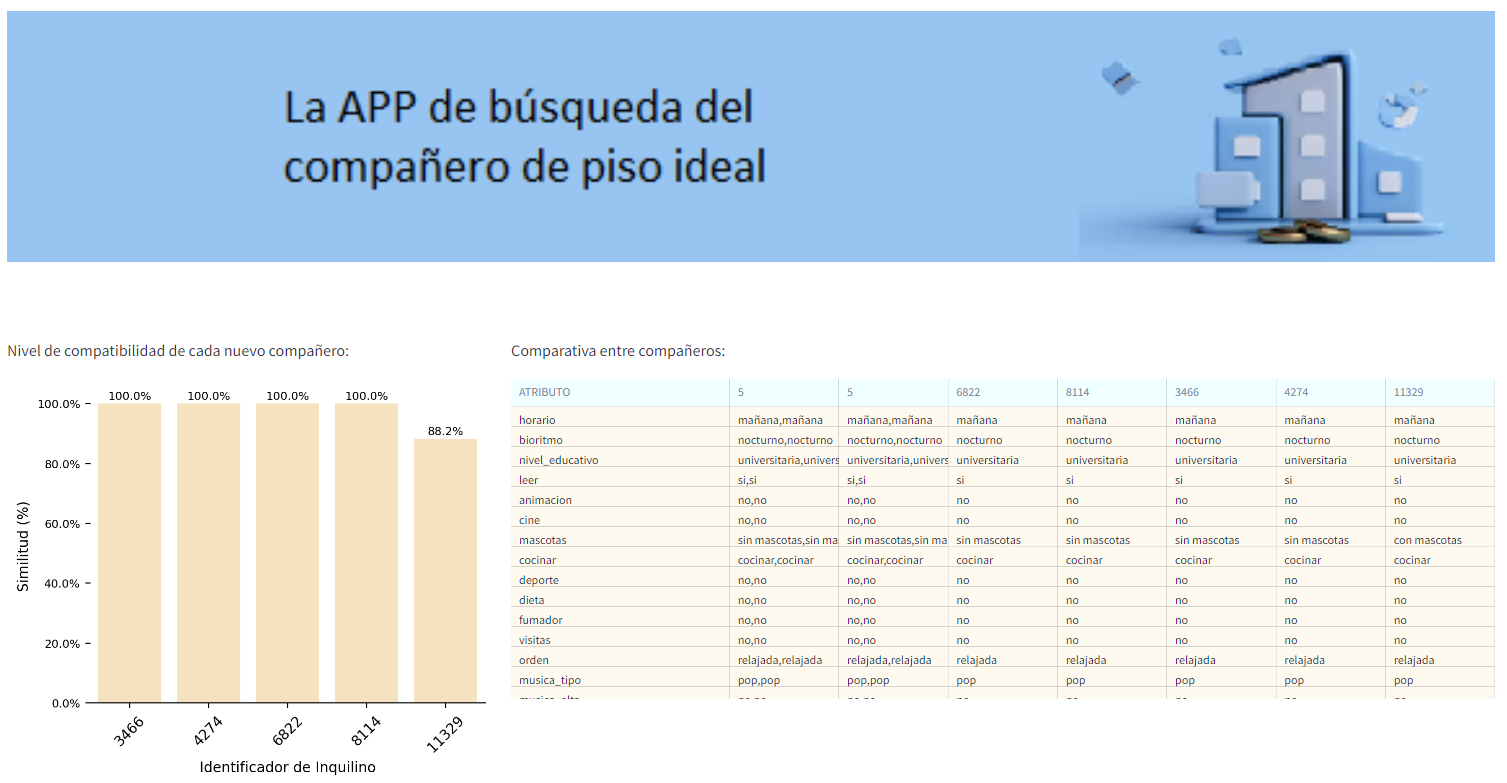
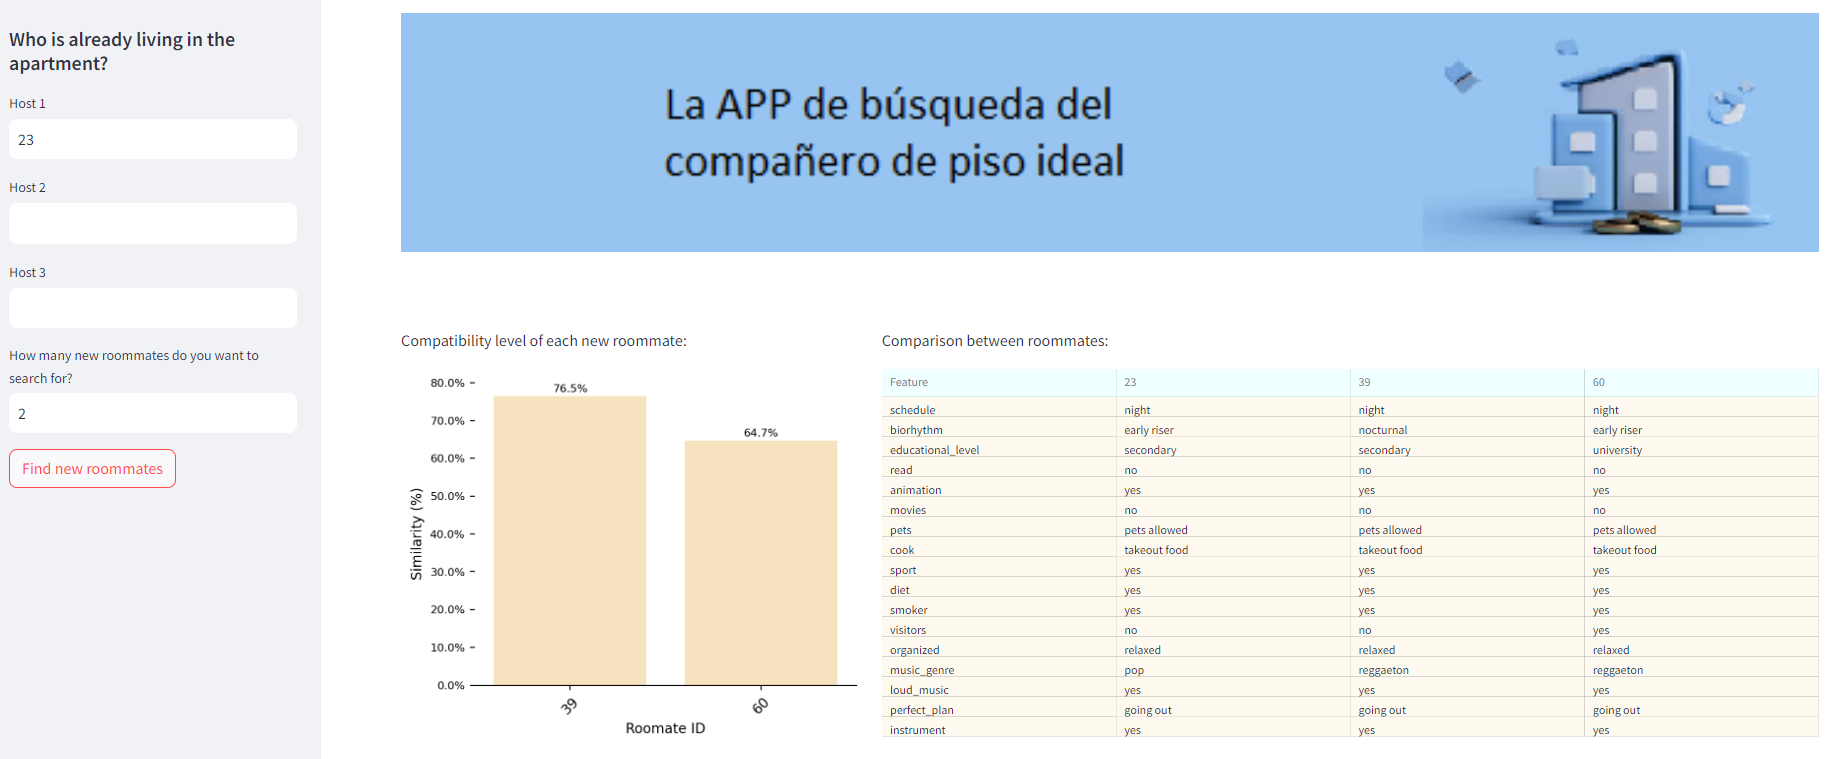
to-en

diff --git a/app.py b/app.py
@@ -1,6 +1,6 @@
 import streamlit as st
 from logica import inquilinos_compatibles
-from app_inquilino_ideal.funciones import generar_grafico_compatibilidad, generar_tabla_compatibilidad, obtener_id_inquilinos
+from functions import generar_grafico_compatibilidad, generar_tabla_compatibilidad, obtener_id_inquilinos
 
 # Configurar la página para utilizar un layout más amplio.
 st.set_page_config(layout="wide")
@@ -15,19 +15,19 @@ st.markdown(f'<div style="margin-top: 60px;"></div>', unsafe_allow_html=True)
 
 # Configurar el sidebar con inputs y un botón.
 with st.sidebar:
-    st.header("¿Quién está viviendo ya en el piso?")
-    inquilino1 = st.text_input("Anfitrión 1")
-    inquilino2 = st.text_input("Anfitrión 2")
-    inquilino3 = st.text_input("Anfitrión 3")
+    st.header("Who is already living in the apartment?")
+    inquilino1 = st.text_input("Host 1")
+    inquilino2 = st.text_input("Host 2")
+    inquilino3 = st.text_input("Host 3")
     
-    num_compañeros = st.text_input("¿Cuántos nuevos compañeros quieres buscar?")
+    num_compañeros = st.text_input("How many new roommates do you want to search for?")
     
-    if st.button('BUSCAR NUEVOS COMPAÑEROS'):
+    if st.button('Find new roommates'):
         # Verifica que el número de compañeros sea un valor válido
         try:
             topn = int(num_compañeros)
         except ValueError:
-            st.error("Por favor, ingresa un número válido para el número de compañeros.")
+            st.error("Please enter a valid number for the number of roommates.")
             topn = None
         
         # Obtener los identificadores de inquilinos utilizando la función
@@ -45,13 +45,15 @@ elif resultado is not None:
     cols = st.columns((1, 2))  # Divide el layout en 2 columnas
     
     with cols[0]:  # Esto hace que el gráfico y su título aparezcan en la primera columna
-        st.write("Nivel de compatibilidad de cada nuevo compañero:")
+        st.write("Compatibility level of each new roommate:")
         fig_grafico = generar_grafico_compatibilidad(resultado[1])
         st.pyplot(fig_grafico)
     
     with cols[1]:  # Esto hace que la tabla y su título aparezcan en la segunda columna
-        st.write("Comparativa entre compañeros:")
+        st.write("Comparison between roommates:")
         fig_tabla = generar_tabla_compatibilidad(resultado)
+        fig_tabla.update_layout(height=380)
+
         st.plotly_chart(fig_tabla, use_container_width=True)
 
 

diff --git a/functions.py b/functions.py
@@ -17,8 +17,8 @@ def generar_grafico_compatibilidad(compatibilidad):
     sns.despine(top=True, right=True, left=True, bottom=False)
     
     # Configurar las etiquetas de los ejes y rotar las etiquetas del eje x
-    ax.set_xlabel('Identificador de Inquilino', fontsize=10)
-    ax.set_ylabel('Similitud (%)', fontsize=10)
+    ax.set_xlabel('Roomate ID', fontsize=10)
+    ax.set_ylabel('Similarity (%)', fontsize=10)
     ax.set_xticklabels(ax.get_xticklabels(), rotation=45)
     
     # Ajustar las etiquetas del eje y para mostrar porcentajes correctamente
@@ -40,11 +40,11 @@ def generar_grafico_compatibilidad(compatibilidad):
 def generar_tabla_compatibilidad(resultado):
     # Cambiar el nombre de la columna 'index' y ajustar el ancho de las columnas
     resultado_0_with_index = resultado[0].reset_index()
-    resultado_0_with_index.rename(columns={'index': 'ATRIBUTO'}, inplace=True)
+    resultado_0_with_index.rename(columns={'index': 'Feature'}, inplace=True)
     
     # Configurar la tabla de Plotly
     fig_table = go.Figure(data=[go.Table(
-        columnwidth = [20] + [10] * (len(resultado_0_with_index.columns) - 1),  # Ajustar el primer valor para el ancho de la columna 'ATRIBUTO'
+        columnwidth = [10] + [10] * (len(resultado_0_with_index.columns) - 1),  # Ajustar el primer valor para el ancho de la columna 'ATRIBUTO'
         header=dict(values=list(resultado_0_with_index.columns),
                     fill_color='azure',
                     align='left'),
@@ -71,7 +71,7 @@ def obtener_id_inquilinos(inquilino1, inquilino2, inquilino3, topn):
             if inquilino:  # Si hay algún texto en el input
                 id_inquilinos.append(int(inquilino))  # Convierte a entero y agrega a la lista
         except ValueError:
-            st.error(f"El identificador del inquilino '{inquilino}' no es un número válido.")
+            st.error(f"The roommate ID: '{inquilino}' is not a valid numer")
             id_inquilinos = []  # Vaciar la lista si hay un error
             break  # Salir del bucle
 

diff --git a/logica.py b/logica.py
@@ -4,12 +4,12 @@ import pandas as pd
 from sklearn.preprocessing import OneHotEncoder
 
 # 2. CARGA DE DATOS
-df = pd.read_csv('dataset_inquilinos.csv', index_col = 'id_inquilino')
+df = pd.read_csv('dataset_inquilinos_100_en.csv', index_col = 'id_inquilino')
 
 df.columns = [
-'horario', 'bioritmo', 'nivel_educativo', 'leer', 'animacion', 
-'cine', 'mascotas', 'cocinar', 'deporte', 'dieta', 'fumador',
-'visitas', 'orden', 'musica_tipo', 'musica_alta', 'plan_perfecto', 'instrumento'
+    'schedule', 'biorhythm', 'educational_level', 'read', 'animation', 
+    'movies', 'pets', 'cook', 'sport', 'diet', 'smoker', 'visitors', 
+    'organized', 'music_genre', 'loud_music', 'perfect_plan', 'instrument'
 ]
 
 # 3. ONE HOT ENCODING
@@ -57,7 +57,7 @@ def inquilinos_compatibles(id_inquilinos, topn):
     # Verificar si todos los ID de inquilinos existen en la matriz de similaridad
     for id_inquilino in id_inquilinos:
         if id_inquilino not in df_similaridad.index:
-            return 'Al menos uno de los inquilinos no encontrado'
+            return 'Host or roommate ID not found. Please use one from range (1-99)'
 
     # Obtener las filas correspondientes a los inquilinos dados
     filas_inquilinos = df_similaridad.loc[id_inquilinos]

diff --git a/readme.md b/readme.md
@@ -1,10 +1,10 @@
-# APP El inquilino ideal
+# APP Web development of 'Your perfect Roommate'
 
-Caso práctico que combina data science, análisis de datos y el sector inmobiliario. Se quiere mostrar como usar Data Science para solucionar problemas complejos en un contexto de negocio real.
+A practical case that combines data science, data analysis, and the real estate sector. The goal is to demonstrate how to use data science to solve complex problems in a real business context.
 
-El caso deberá analizar y responder qué compañero resulta idóneo de entre 12000 posibles candidatos según las respuestas dadas a un total de 17 preguntas para compartir un piso con varias habitaciones dónde mínimo alguna de ellas ya está ocupada.
+The case will analyze and determine which roommate is ideal among 100 possible candidates based on the responses to a total of 17 questions for sharing an apartment with multiple rooms, where at least some of them are already occupied.
 
-Veremos cómo transformar un desafío del mundo real en una solución práctica usando herramientas de Data Science como Python, Pandas, Streamlit y Numpy. Además, se hace uso de Streamlit para crear una aplicación interactiva tras procesar el dataset y extraer la solución con los inputs que el usuario introduzca
+We will see how to transform a real-world challenge into a practical solution using data science tools such as Python, Pandas, Streamlit, and Numpy. Additionally, Streamlit is used to create an interactive application after processing the dataset and extracting the solution based on user inputs.
 
 ## Tecnologías utilizadas
 
@@ -17,24 +17,24 @@ Veremos cómo transformar un desafío del mundo real en una solución práctica 
 - Plotly
 - Streamlit
 
-## Ejemplo de uso
+## Case of use example
 
 ![header_photo](https://github.com/CarlEstP/app_inquilino_ideal/blob/main/src/exa.PNG)
 
-- _Caso práctico adaptado de la propuesta del canal DS4B_ \*
+- _Practical case adapted from the proposal of the DS4B channel_
 
-## Descripción de la lógica de la app
+## Description of the App Logic
 
-1 Arranca la app desde app.py generando el frontend con la ayuda de streamlit
+1. Start the app from app.py, generating the frontend with the help of Streamlit.
 
-2 Se accede al archivo de funciones.py para reformatear los identificadores de inquilino introducidos en el formulario
+2. Access the functions.py file to reformat the tenant identifiers entered in the form.
 
-3 Se ejecuta la función de buscar los inquilinos compatibles (Acceder al jupyter notebook de logica.ipynb para más detalles):
+3. Execute the function to search for compatible roomates (Refer to the Jupyter notebook logica.ipynb for more details):
 
-- Se usa la librería OneHotEncoder y se calcula la matriz de similaridad utilizando el punto producto
-- Se define el rango de destino, se encuentra el mínimo y máximo valor y se reescala la matriz
-- Se crea un nuevo dataframe con Pandas
-- Se buscan los inquilinos compatibles teniendo en cuenta cuántos inquilinos ya residen y cuántos hay que añadir a la vivienda.
-- La función devolverá una lista con los inquilinos compatibles, y los datos de similaridad
+- Use the OneHotEncoder library and calculate the similarity matrix using dot product.
+- Define the target range, find the minimum and maximum values, and rescale the matrix.
+- Create a new dataframe with Pandas.
+- Search for compatible tenants considering how many tenants already reside and how many need to be added to the property.
+- The function will return a list of compatible tenants and their similarity data.
 
-4 Si hay resultado válido se muestra la tabla y el gráfico de compatibilidad
+4. If there is a valid result, display the compatibility table and graph.
